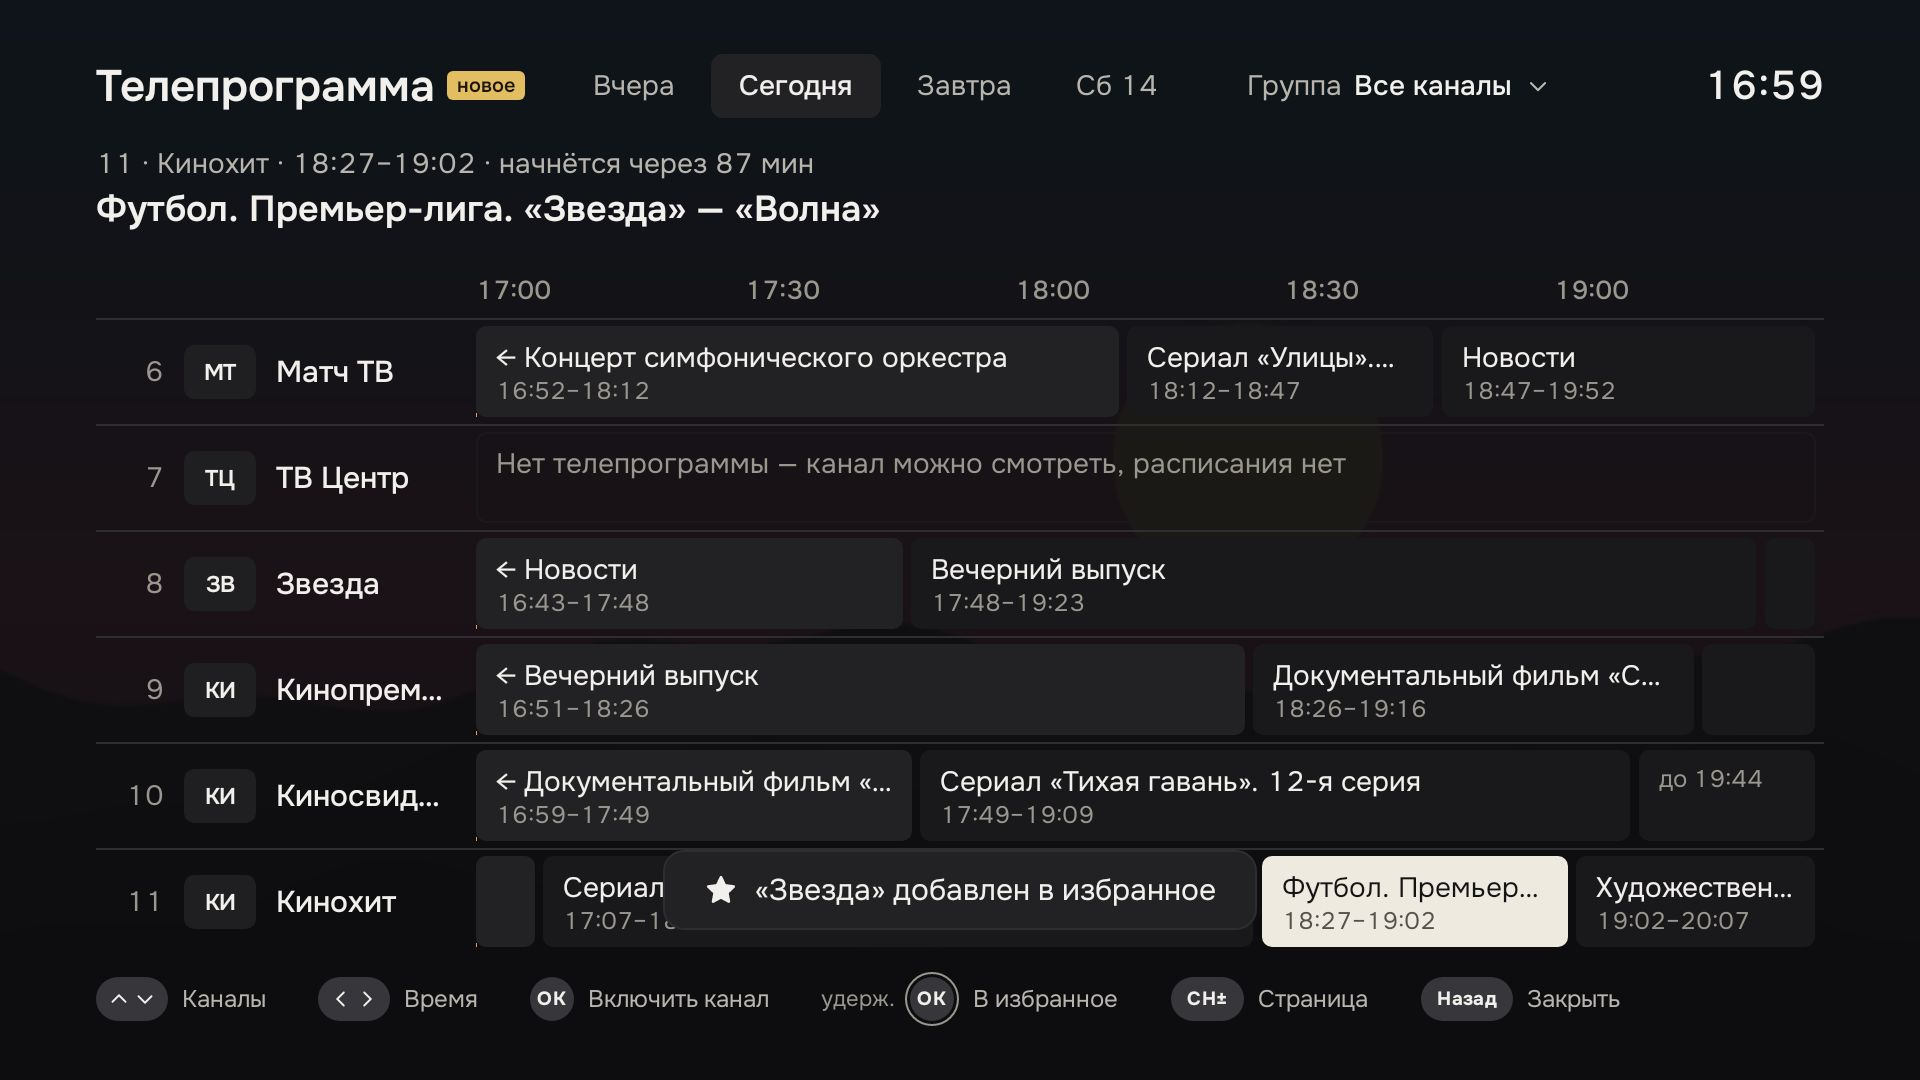
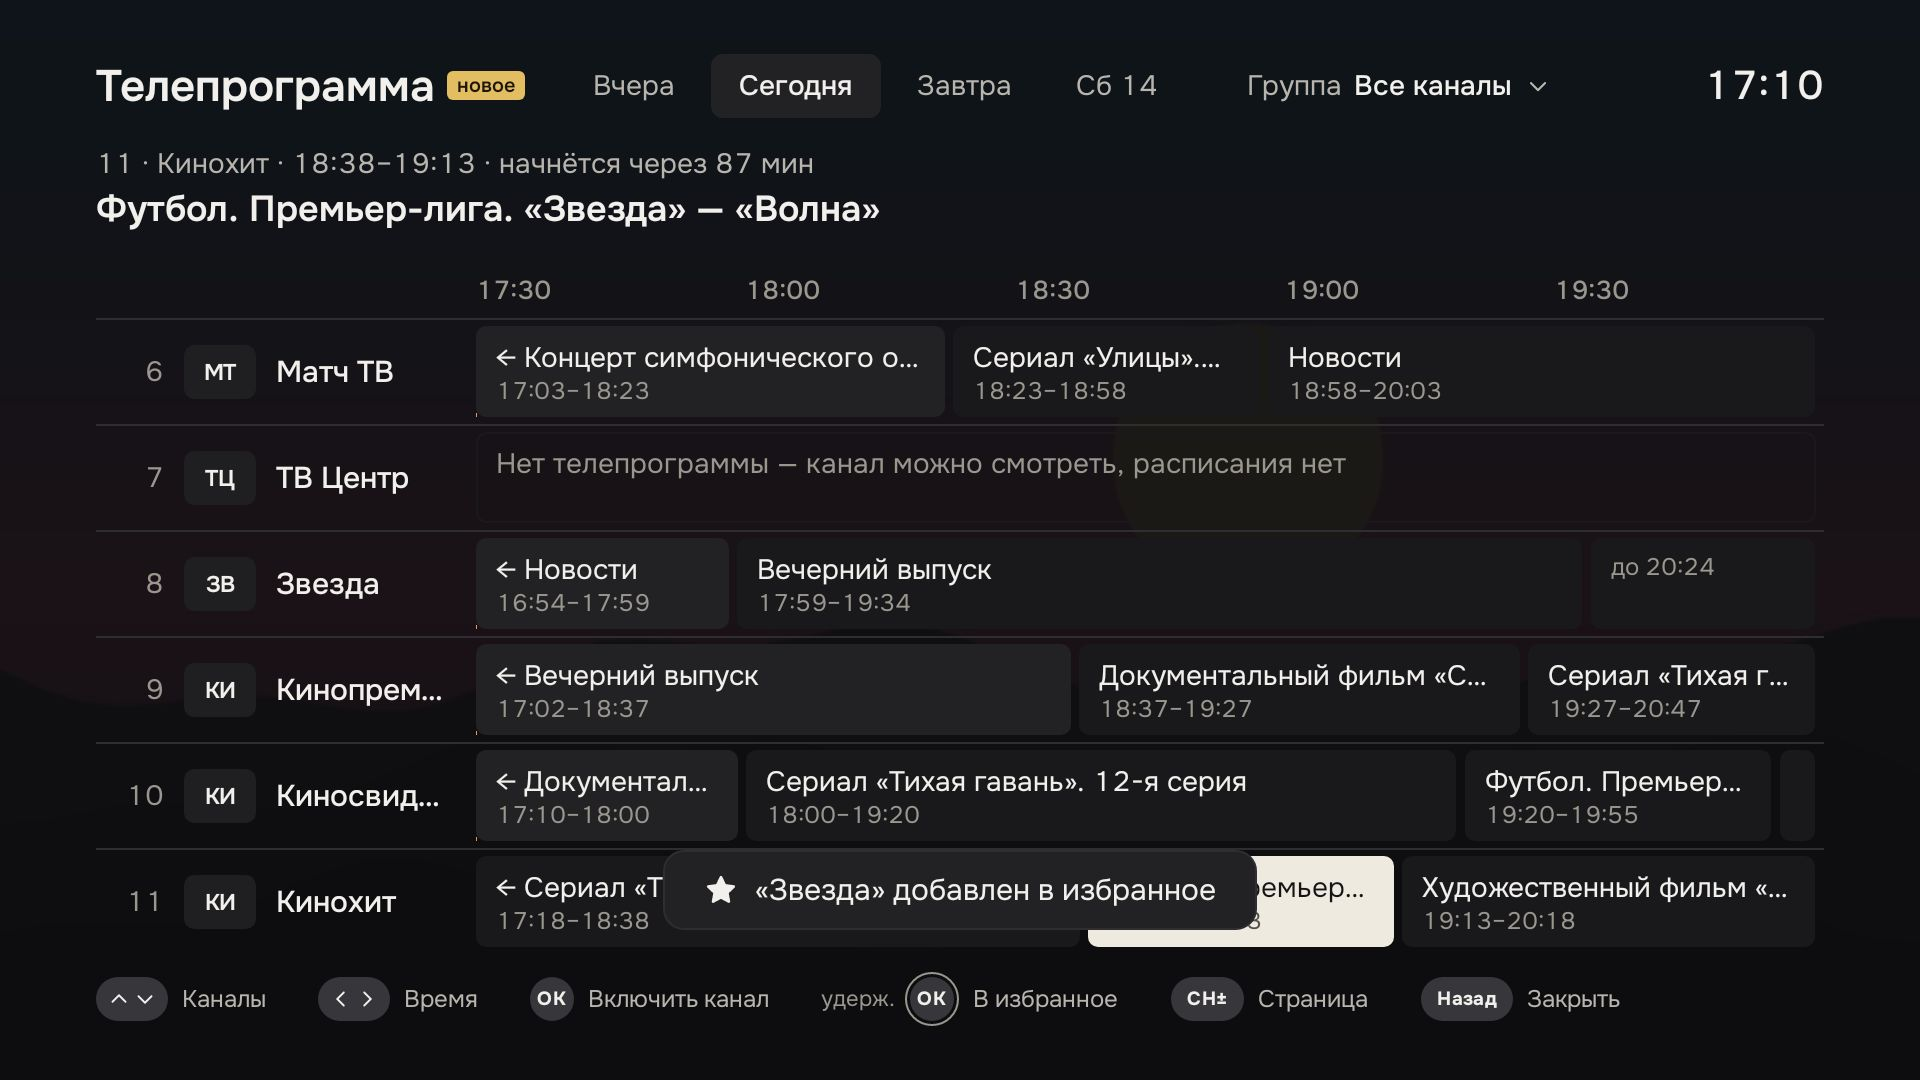
Настройки: короткая карточка QR и аккуратные переключатели; без значка «играет» на ТВ
- Карточка «С телефона»: короткие подписи, которые помещаются целиком,
  без многоточий.
- Переключатели — сплошная дорожка без рамки: включён — светлая с тёмным
  кружком справа, выключен — серая с белым кружком слева. На Android
  выключенный переключатель сжимался до одного кружка — теперь у него
  постоянный размер.
- У играющего канала в гиде и в списках на ТВ больше нет трёх оранжевых
  полосок: его видно по оранжевой рамке и полосе прогресса.

Claude-Session: https://claude.ai/code/session_01B1ShhQDbBmNusxCT3aMhFM

diff --git a/app/src/main/java/com/volnalabs/tv/ui/SettingsActivity.kt b/app/src/main/java/com/volnalabs/tv/ui/SettingsActivity.kt
@@ -377,8 +377,7 @@ class SettingsActivity : BaseActivity() {
                 addView(u.box { background = u.rect(C.S3, 32); addView(u.icon(R.drawable.ic_phone, 32, C.T1), u.fr(32, 32, Gravity.CENTER)) }, u.lin(64, 64, r = 20))
                 addView(u.text("С телефона", 32, C.T1, 600))
             }, u.lin(MATCH, WRAP))
-            addView(u.text("Наведите камеру на код и вставьте ссылку на плейлист или плагин — она сразу придёт сюда.", 26, C.T2, lines = 6, lineHeight = 34),
-                u.lin(MATCH, WRAP, t = 20))
+            addView(u.text("Наведите камеру на код", 26, C.T2, lines = 2, lineHeight = 34), u.lin(MATCH, WRAP, t = 20))
             addView(ImageView(context).apply {
                 background = u.rect(C.PAPER, 20)
                 u.pad(this, 20, 20, 20, 20)
@@ -386,7 +385,7 @@ class SettingsActivity : BaseActivity() {
                 contentDescription = "QR-код для телефона"
             }, u.lin(280, 280, t = 28))
             addView(u.text(serverUrl.ifEmpty { "Нет подключения к сети" }, 28, C.T1, 600), u.lin(t = 24))
-            addView(u.text("Телефон и телевизор должны быть в одной сети", 24, C.T3, lines = 2, lineHeight = 30).apply { gravity = Gravity.CENTER }, u.lin(MATCH, WRAP, t = 6))
+            addView(u.text("Телефон и ТВ — в одной сети", 24, C.T3, lines = 2, lineHeight = 30).apply { gravity = Gravity.CENTER }, u.lin(MATCH, WRAP, t = 6))
         }, u.fr(MATCH, WRAP))
     }
 
@@ -512,7 +511,7 @@ class SettingsActivity : BaseActivity() {
                 if (it.valueIcon != 0) addView(u.icon(it.valueIcon, s(32, 18), if (it.valueIcon == R.drawable.ic_check && !sel) C.SUCCESS else c), u.lin(s(32, 18), s(32, 18), r = s(10, 6)))
                 addView(u.text(it.value, s(28, 13), c))
             }, u.lin(l = s(24, 12)))
-            if (it.sw != null) addView(u.switch(it.sw, sel, s(72, 44)), u.lin(l = s(24, 12)))
+            if (it.sw != null) addView(u.switch(it.sw, sel, s(72, 44)), u.lin(s(72, 44), s(40, 24), l = s(24, 12)))
             else if (it.chev) addView(u.icon(R.drawable.ic_chevron_right, s(28, 20), second), u.lin(s(28, 20), s(28, 20), l = s(16, 8)))
             contentDescription = it.title + if (it.value.isNotEmpty()) ", " + it.value else ""
             if (it.sw != null) stateDescription(this, it.sw)

diff --git a/web/style.css b/web/style.css
@@ -498,13 +498,13 @@ body.mouse .rp, body.mouse .ch { cursor: pointer; }
 .set.sel .status-v.err, .set.sel .status-v.err .ic, .set.sel .v.err { color: #B4232F; }
 body.mouse .set { cursor: pointer; }
 .gt { padding: 28px 8px 12px; font-size: 26px; line-height: 34px; color: #9A978F; }
-.sw { position: relative; width: 72px; height: 40px; margin-left: 24px; border: 3px solid #77767C; border-radius: 20px; -webkit-flex: none; flex: none; }
-.sw i { position: absolute; left: 5px; top: 5px; width: 24px; height: 24px; border-radius: 50%; background: #B8B5AF; }
-.sw.on { background: #EFEAE0; border-color: #EFEAE0; }
-.sw.on i { left: 37px; background: #141415; }
-.sel .sw { border-color: #56534D; }
+.sw { position: relative; width: 72px; height: 40px; margin-left: 24px; border-radius: 20px; background: rgba(242,240,236,.28); -webkit-flex: none; flex: none; }
+.sw i { position: absolute; left: 4px; top: 4px; width: 32px; height: 32px; border-radius: 50%; background: #F2F0EC; }
+.sw.on { background: #EFEAE0; }
+.sw.on i { left: 36px; background: #141415; }
+.sel .sw { background: rgba(20,20,21,.16); }
 .sel .sw i { background: #56534D; }
-.sel .sw.on { background: #141415; border-color: #141415; }
+.sel .sw.on { background: #141415; }
 .sel .sw.on i { background: #EFEAE0; }
 .lbl { margin: 24px 0 8px; font-size: 28px; line-height: 36px; color: #B8B5AF; }
 .ph1 + .lbl, .lead + .lbl { margin-top: 16px; }
@@ -803,8 +803,8 @@ body.desk #pop .ph { padding: 6px 10px 4px; font-size: 12px; line-height: 16px; 
 body.desk #pop .pi { height: 36px; padding: 0 10px; border-radius: 6px; font-size: 14px; cursor: pointer; }
 body.desk #pop .pi .ic { width: 18px; height: 18px; margin-right: 10px; }
 body.desk #pop .pi small { margin-left: 8px; font-size: 12px; }
-body.desk #pop .pi .sw { width: 36px; height: 20px; border-width: 2px; margin-left: 12px; }
-body.desk #pop .pi .sw i { left: 3px; top: 3px; width: 10px; height: 10px; }
+body.desk #pop .pi .sw { width: 36px; height: 20px; margin-left: 12px; }
+body.desk #pop .pi .sw i { left: 3px; top: 3px; width: 14px; height: 14px; }
 body.desk #pop .pi .sw.on i { left: 19px; }
 body.desk #pop .pi:hover, body.desk #pop .pi.sel { background: #2C2C30; color: #F2F0EC; }
 body.desk #pop .pi.sel .ic, body.desk #pop .pi.sel small { color: #B8B5AF; }

diff --git a/web/app.js b/web/app.js
@@ -951,7 +951,7 @@
       var y = S.ci === 0 ? 18 + i * PITCH : 152 + (i - S.ci) * PITCH;
       html += '<div role="option" aria-selected="' + (i === S.ci) + '" data-z="channels" data-i="' + i + '" class="trow' + (i === S.ci ? ' cur' : '') + (i === S.ci && focus ? ' sel' : '') + (cur ? ' play' : '') +
         '" style="top:' + y + 'px"><span class="no' + (c.number > 9999 ? ' n5' : c.number > 999 ? ' n4' : '') + '">' + numText(c.number) + '</span><span class="tile">' + logoHtml(c, 'tl') +
-        '<span class="nm">' + esc(c.name) + '</span><span class="bd">' + (cur ? svg('playing', 'pl') : '') + (fav ? svg('star-filled') : '') + '</span></span></div>';
+        '<span class="nm">' + esc(c.name) + '</span><span class="bd">' + (fav ? svg('star-filled') : '') + '</span></span></div>';
     }
     $('gchs').innerHTML = html + '<div class="fade t"></div><div class="fade b"></div>';
   }
@@ -964,7 +964,7 @@
       '<span class="no">' + (opt.no || c.number) + '</span>' + logoHtml(c) +
       '<span class="tx"><span class="nm">' + (opt.name || esc(c.name)) + '</span><span class="sub' + (p < 0 && !opt.sub ? ' none' : '') + '">' +
       (opt.sub || (p >= 0 ? esc(e.t[p]) : S.epg ? 'Нет телепрограммы' : esc(c.group))) + '</span>' + (p >= 0 && !opt.nobar ? bar(e.s[p], e.e[p], now, cur ? 'lv' : '') : '') + '</span>' +
-      '<span class="tail">' + (cur ? svg('playing', 'pl') : '') + (opt.star ? '<span class="fv' + (fav ? ' on' : '') + '" data-a="fav" title="' + (fav ? 'Убрать из избранного' : 'В избранное') + '">' + svg(fav ? 'star-filled' : 'star') + '</span>' : fav ? svg('star-filled') : '') + '</span></div>';
+      '<span class="tail">' + (cur && deskMode() ? svg('playing', 'pl') : '') + (opt.star ? '<span class="fv' + (fav ? ' on' : '') + '" data-a="fav" title="' + (fav ? 'Убрать из избранного' : 'В избранное') + '">' + svg(fav ? 'star-filled' : 'star') + '</span>' : fav ? svg('star-filled') : '') + '</span></div>';
   }
   function renderRows() {
     if (S.menuId === 'search') { deskRenderSearch(); return; }

diff --git a/app/src/main/java/com/volnalabs/tv/ui/Ui.kt b/app/src/main/java/com/volnalabs/tv/ui/Ui.kt
@@ -166,14 +166,16 @@ class Ui(val ctx: Context, val scale: Float) {
     }
 
     /** Переключатель 72×40: выключен — рамка, включён — «бумага». onPaper — внутри строки в фокусе. */
+    /** Переключатель: заливка без рамки, кружок внутри; включён — светлая дорожка, выключен — тёмная. */
     fun switch(on: Boolean, onPaper: Boolean, w: Int = 72): View = box {
         val h = w * 40 / 72
-        val knob = w * 24 / 72
-        val border = if (onPaper) (if (on) C.TI else C.TI2) else if (on) C.PAPER else C.LINE_CTL
-        background = rect(if (on) (if (onPaper) C.TI else C.PAPER) else 0, h / 2, border, 3)
+        val pad = w * 4 / 72
+        val knob = h - pad * 2
+        val track = if (onPaper) (if (on) C.TI else 0x29141415) else if (on) C.PAPER else 0x47F2F0EC
+        background = rect(track, h / 2)
         layoutParams = ViewGroup.LayoutParams(p(w), p(h))
-        addView(View(ctx).apply { background = rect(if (on) (if (onPaper) C.PAPER else C.TI) else if (onPaper) C.TI2 else C.T2, knob / 2) },
-            fr(knob, knob, Gravity.CENTER_VERTICAL, l = if (on) w - knob - 8 else 8))
+        addView(View(ctx).apply { background = rect(if (onPaper) (if (on) C.PAPER else C.TI2) else if (on) C.TI else C.T1, knob / 2) },
+            fr(knob, knob, Gravity.CENTER_VERTICAL, l = if (on) w - knob - pad else pad))
     }
 }
 

diff --git a/app/src/main/java/com/volnalabs/tv/ui/TvLayers.kt b/app/src/main/java/com/volnalabs/tv/ui/TvLayers.kt
@@ -116,7 +116,6 @@ class TvLayers(private val a: MainActivity) {
                 if (p >= 0 && bar) addView(u.bar((now - e!!.starts[p]).toFloat() / (e.stops[p] - e.starts[p]).coerceAtLeast(1), if (sel) C.TRACK_ON_PAPER else C.TRACK,
                     if (playing) (if (sel) C.ACCENT_ON_PAPER else C.ACCENT) else if (sel) C.TI2 else C.T3, 4), u.lin(MATCH, 4, t = 8))
             }, u.lin(0, WRAP, 1f))
-            if (playing) addView(u.icon(R.drawable.ic_playing, 36, if (sel) C.ACCENT_ON_PAPER else C.ACCENT), u.lin(36, 36, l = 16))
             if (a.isFav(c)) addView(u.icon(R.drawable.ic_star_filled, 36, if (sel) C.TI2 else C.T2), u.lin(36, 36, l = 16))
             contentDescription = "${c.number}, ${c.name}" + if (p >= 0) ", сейчас: ${e!!.titles[p]}" else ""
         }
@@ -822,7 +821,6 @@ class TvLayers(private val a: MainActivity) {
             addView(u.text(c.name, 26, C.T2).apply { maxWidth = u.p(290) }, u.lin(t = 10))
         }, u.fr(MATCH, WRAP, Gravity.CENTER))
         addView(u.row {
-            if (playing) addView(u.icon(R.drawable.ic_playing, 30, C.ACCENT), u.lin(30, 30, l = 12))
             if (a.isFav(c)) addView(u.icon(R.drawable.ic_star_filled, 30, C.T1), u.lin(30, 30, l = 12))
         }, u.fr(WRAP, WRAP, Gravity.TOP or Gravity.END, t = 16, r = 18))
     }

diff --git a/app/src/main/java/com/volnalabs/tv/ui/Base.kt b/app/src/main/java/com/volnalabs/tv/ui/Base.kt
@@ -218,7 +218,7 @@ abstract class BaseActivity : Activity() {
                 addView(if (it.icon != 0) u.icon(it.icon, s, second) else View(context), u.lin(s, s, r = if (tv) 20 else 16))
                 addView(u.text(it.title, if (tv) 30 else 16, main), u.lin(0, WRAP, 1f))
                 if (it.sub.isNotEmpty()) addView(u.text(it.sub, if (tv) 26 else 13, if (sel) C.TI2 else C.T3), u.lin(l = 16))
-                if (it.toggle != null) addView(u.switch(it.toggle, sel, if (tv) 72 else 44), u.lin(l = 16))
+                if (it.toggle != null) addView(u.switch(it.toggle, sel, if (tv) 72 else 44), u.lin(if (tv) 72 else 44, if (tv) 40 else 24, l = 16))
                 if (it.key.isNotEmpty() && tv) addView(u.text(it.key, 22, second), u.lin(l = 32))
                 contentDescription = it.title
                 setOnClickListener { _ -> if (!it.off) { popIndex = i; popChoose() } }

diff --git a/docs/design/DEVIATIONS.md b/docs/design/DEVIATIONS.md
@@ -21,6 +21,8 @@
 | Сетка «каналы × время» открывается кнопкой в шапке гида (между часами и шестерёнкой) | `headPress()` | Раньше — пункт меню действий; меню удержания больше нет |
 | Настройки на ТВ — строки-карточки со скруглением 20, значки в круглой подложке, разделы крупнее; Android TV — карточка «С телефона» с QR-кодом всегда справа | `.set`, `SettingsActivity.row()`, `renderQrCard()` | Владелец: «выглядит плохо и неудобно, QR спрятан за кнопкой». Экран «С телефона» и кнопки «Вставить с телефона» убраны — код и так на виду. На Samsung и LG QR нет: приём ссылок с телефона там не сделан |
 | Панель записи (SPEC 4.2, архив) — как в YouTube для ТВ: название передачи, шкала с бегунком, время над бегунком при перемотке; ◀▶ на шкале двигают метку с ускорением (10 с → 30 с → 1 мин → 2 мин), переход через 0,8 с или по OK; ▼ — круглые кнопки «−30 с», «Пауза», «+30 с» и «Вернуться в эфир». «О передаче» и «Телепрограмма» с панели убраны | `renderCtl()`, `scrubStep()`, `TvLayers.renderCtl()` | Владелец попросил «как в YouTube». Пока панель открыта, OSD не показывается — канал и передача на самой панели |
+| Значка «играет» (три полоски) у плиток гида и строк каналов на ТВ нет; играющий канал отмечен оранжевой рамкой плитки и оранжевой полосой прогресса | `renderTiles()`, `chRow()`, `TvLayers.tile()` | Владелец попросил убрать. На компьютере и телефоне значок остался |
+| Переключатели — сплошная дорожка без рамки: включён — светлая с тёмным кружком справа, выключен — серая с белым кружком слева | `.sw`, `Ui.switch()` | Прежний выключенный вид (рамка и маленький кружок) читался плохо; на Android переключатель ещё и сжимался до кружка из-за размера по содержимому |
 | Сетка, открытая из гида, прячет гид под собой | `openGrid()`, `closeGrid()` | Полупрозрачный фон сетки показывал гид насквозь; «Назад» возвращает гид |
 
 ## Процесс
